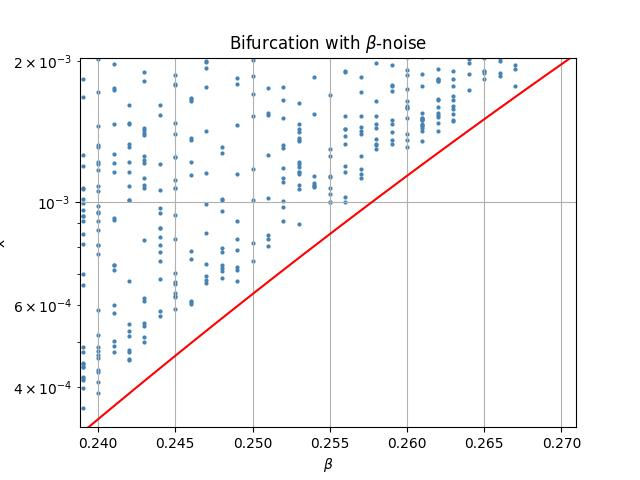
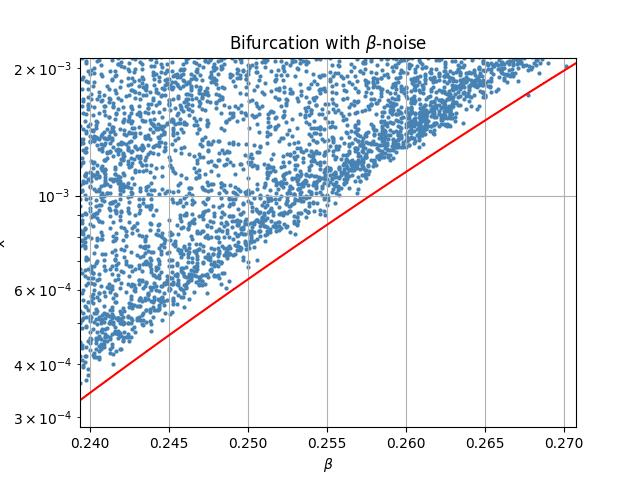
Ref

diff --git a/grpah/runner.py b/grpah/runner.py
@@ -690,15 +690,17 @@ def run_cyclic_variance():
 
 
 def run_stochastic_sensitivity_b_noise():
+    p_range = np.arange(0.22, 0.582355932, 0.001)
+
     values = bifurcation(
         time_range=range(1, 100 + 1),
         x_start=0.2,
-        p_range=np.arange(0.22, 0.582355932, 0.001),
+        p_range=p_range,
         f=lambda b, x: functions.f(1, b, x),
     )
     source = bifurcation_with_ssf(
         values=values,
-        b_range=np.arange(0.22, 0.582355932, 0.001),
+        b_range=p_range,
         a=1,
         left1=0.44,
         right1=0.582355932,
@@ -719,7 +721,151 @@ def run_stochastic_sensitivity_b_noise():
     chaos = bifurcation(
         time_range=range(1, 100 + 1),
         x_start=0.2,
-        p_range=np.arange(0.22, 0.582355932, 0.001),
+        p_range=p_range,
+        f=lambda b, x: functions.f_pb(1, b, x, 0.001)
+    )
+    chaos = convert_dict_to_lists(chaos)
+
+    plotter = (Plotter()
+               .setup('$\\beta$', 'x', 'log', 'major', 'Bifurcation with $\\beta$-noise')
+               .scatter(chaos[0], chaos[1], '.', 'steelblue'))
+
+    for line in source:
+        plotter.plot(line.x, line.y, ',', 'red')
+
+    plotter.show_last()
+    # plotter.show()
+
+
+def run_stochastic_sensitivity_b_noise_1():
+    p_range = np.arange(0.35, 0.385, 0.0001)
+
+    values = bifurcation(
+        time_range=range(1, 100 + 1),
+        x_start=0.2,
+        p_range=p_range,
+        f=lambda b, x: functions.f(1, b, x),
+    )
+    source = bifurcation_with_ssf(
+        values=values,
+        b_range=p_range,
+        a=1,
+        left1=0.44,
+        right1=0.582355932,
+        left2=0.379,
+        right2=0.435,
+        left3=0.22,
+        right3=0.34,
+        left4=0.36,
+        right4=0.37,
+        m=lambda a, b, x: functions_b_noise.m_chaos_b(a, b, x, 0.001),
+        epsilon=0.001,
+        f=lambda b, x: base_functions.f(1, b, x),
+        s=lambda b, x: functions_b_noise.s_chaos_b(1, b, x, 0.001),
+        q=lambda b, x: functions_b_noise.q_chaos_b(1, b, x, 0.001),
+        q_=functions_b_noise._q_bn,
+        s_=functions_b_noise._s_bn
+    )
+    chaos = bifurcation(
+        time_range=range(1, 100 + 1),
+        x_start=0.2,
+        p_range=p_range,
+        f=lambda b, x: functions.f_pb(1, b, x, 0.001)
+    )
+    chaos = convert_dict_to_lists(chaos)
+
+    plotter = (Plotter()
+               .setup('$\\beta$', 'x', 'log', 'major', 'Bifurcation with $\\beta$-noise')
+               .scatter(chaos[0], chaos[1], '.', 'steelblue'))
+
+    for line in source:
+        plotter.plot(line.x, line.y, ',', 'red')
+
+    plotter.show_last()
+    # plotter.show()
+
+
+def run_stochastic_sensitivity_b_noise_2():
+    p_range = np.arange(0.4, 0.6, 0.0001)
+
+    values = bifurcation(
+        time_range=range(1, 100 + 1),
+        x_start=0.2,
+        p_range=p_range,
+        f=lambda b, x: functions.f(1, b, x),
+    )
+    source = bifurcation_with_ssf(
+        values=values,
+        b_range=p_range,
+        a=1,
+        left1=0.44,
+        right1=0.582355932,
+        left2=0.379,
+        right2=0.435,
+        left3=0.22,
+        right3=0.34,
+        left4=0.36,
+        right4=0.37,
+        m=lambda a, b, x: functions_b_noise.m_chaos_b(a, b, x, 0.001),
+        epsilon=0.001,
+        f=lambda b, x: base_functions.f(1, b, x),
+        s=lambda b, x: functions_b_noise.s_chaos_b(1, b, x, 0.001),
+        q=lambda b, x: functions_b_noise.q_chaos_b(1, b, x, 0.001),
+        q_=functions_b_noise._q_bn,
+        s_=functions_b_noise._s_bn
+    )
+    chaos = bifurcation(
+        time_range=range(1, 100 + 1),
+        x_start=0.2,
+        p_range=p_range,
+        f=lambda b, x: functions.f_pb(1, b, x, 0.001)
+    )
+    chaos = convert_dict_to_lists(chaos)
+
+    plotter = (Plotter()
+               .setup('$\\beta$', 'x', 'log', 'major', 'Bifurcation with $\\beta$-noise')
+               .scatter(chaos[0], chaos[1], '.', 'steelblue'))
+
+    for line in source:
+        plotter.plot(line.x, line.y, ',', 'red')
+
+    plotter.show_last()
+    # plotter.show()
+
+
+def run_stochastic_sensitivity_b_noise_3():
+    p_range = np.arange(0.22, 0.3, 0.0001)
+
+    values = bifurcation(
+        time_range=range(1, 100 + 1),
+        x_start=0.2,
+        p_range=p_range,
+        f=lambda b, x: functions.f(1, b, x),
+    )
+    source = bifurcation_with_ssf(
+        values=values,
+        b_range=p_range,
+        a=1,
+        left1=0.44,
+        right1=0.582355932,
+        left2=0.379,
+        right2=0.435,
+        left3=0.22,
+        right3=0.34,
+        left4=0.36,
+        right4=0.37,
+        m=lambda a, b, x: functions_b_noise.m_chaos_b(a, b, x, 0.001),
+        epsilon=0.001,
+        f=lambda b, x: base_functions.f(1, b, x),
+        s=lambda b, x: functions_b_noise.s_chaos_b(1, b, x, 0.001),
+        q=lambda b, x: functions_b_noise.q_chaos_b(1, b, x, 0.001),
+        q_=functions_b_noise._q_bn,
+        s_=functions_b_noise._s_bn
+    )
+    chaos = bifurcation(
+        time_range=range(1, 100 + 1),
+        x_start=0.2,
+        p_range=p_range,
         f=lambda b, x: functions.f_pb(1, b, x, 0.001)
     )
     chaos = convert_dict_to_lists(chaos)

diff --git a/latex/stochastic.tex b/latex/stochastic.tex
@@ -8,7 +8,7 @@
 
         Как я сказал выше, в модели (\ref{origin}) можно рассматривать три вида возможного шума: \(\alpha\)-шум, \(\beta\)-шум и аддитивный шум. Каждый вид шума несет свой биологический смысл.
 
-        \comment{А что на счет комбинации шумов? Нечто может влиять на enviroment capacity и на growth rate одновременно. Нужно понять биологический смысл разных видов шумов, чтоб понять можно ли их комбинировать.}
+        \comment{А что на счет комбинации шумов? Нечто может влиять на enviroment capacity и на growth rate одновременно.}
 
         Вот так будут выглядеть формулы с разными видами шума.
 

diff --git a/grpah/main.py b/grpah/main.py
@@ -67,5 +67,9 @@ if __name__ == "__main__":
     # run_stochastic_sensitivity_a_noise()
     # run_stochastic_sensitivity_additive_noise()
 
+    # run_stochastic_sensitivity_b_noise_1()
+    # run_stochastic_sensitivity_b_noise_2()
+    # run_stochastic_sensitivity_b_noise_3()
+
     # График стохастической чувствительности
     # run_m_b()
